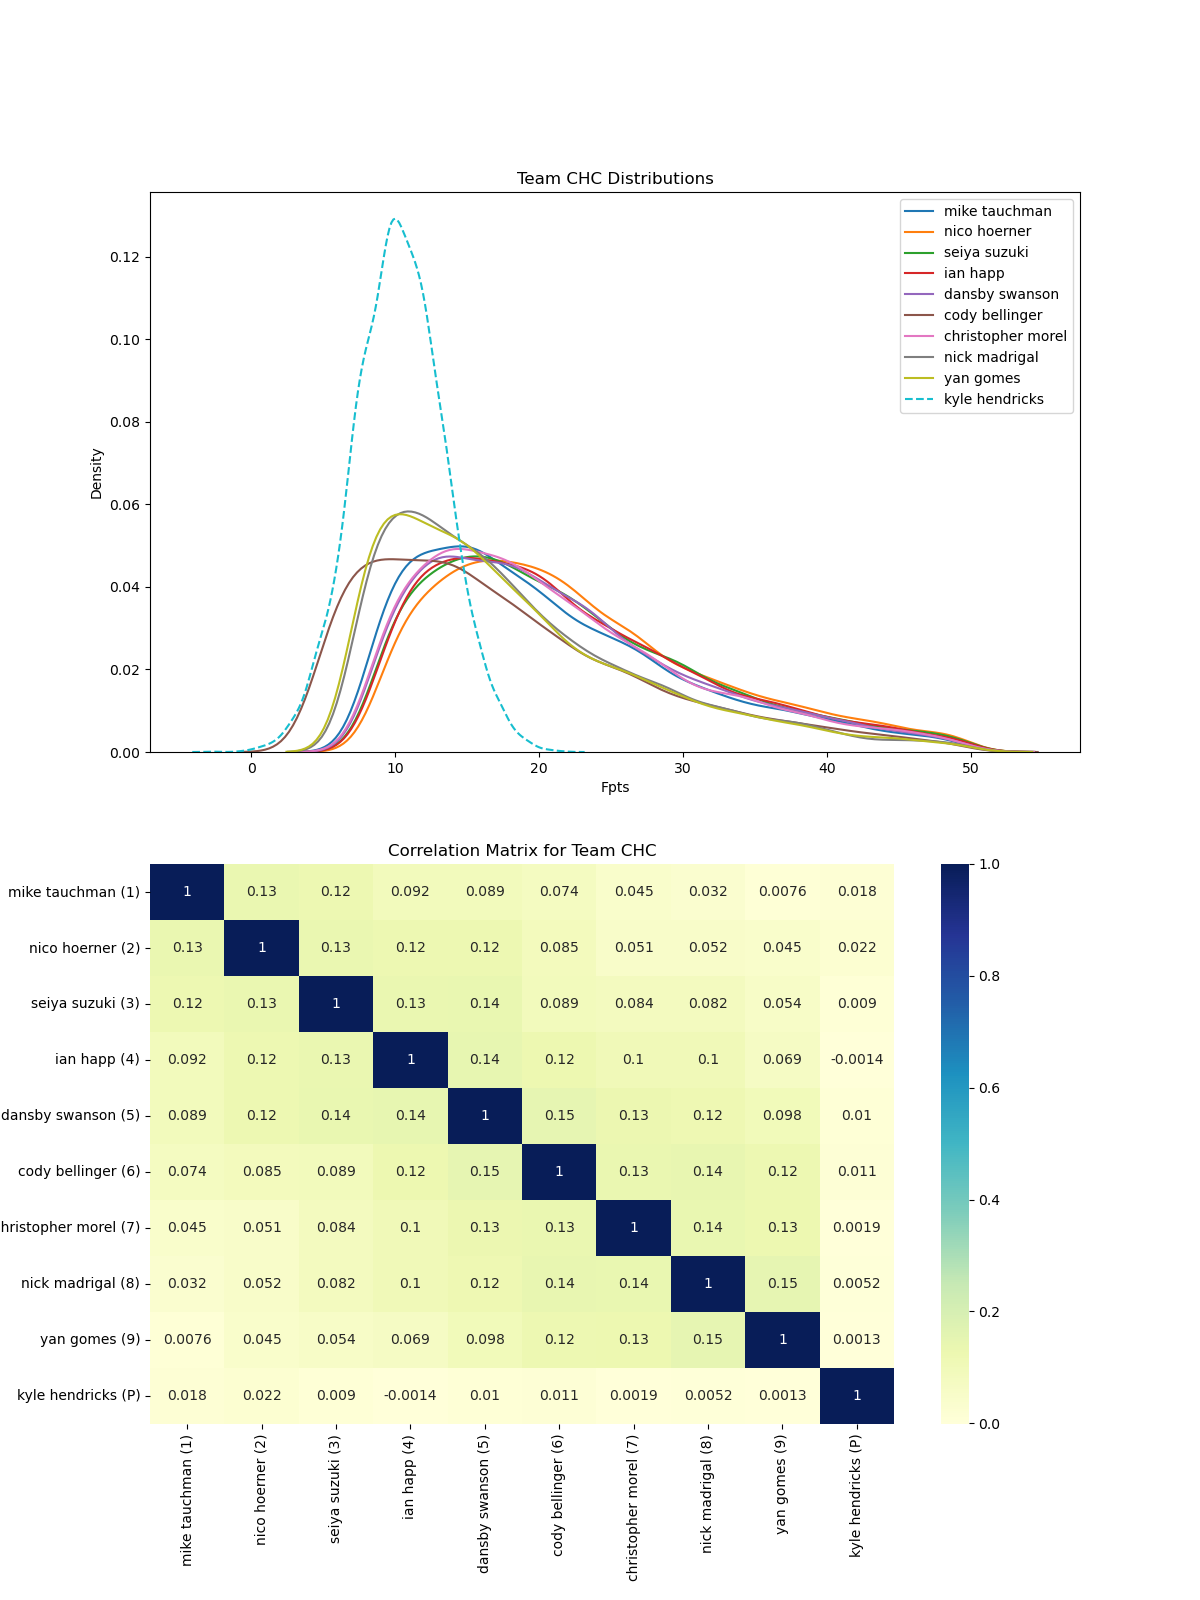
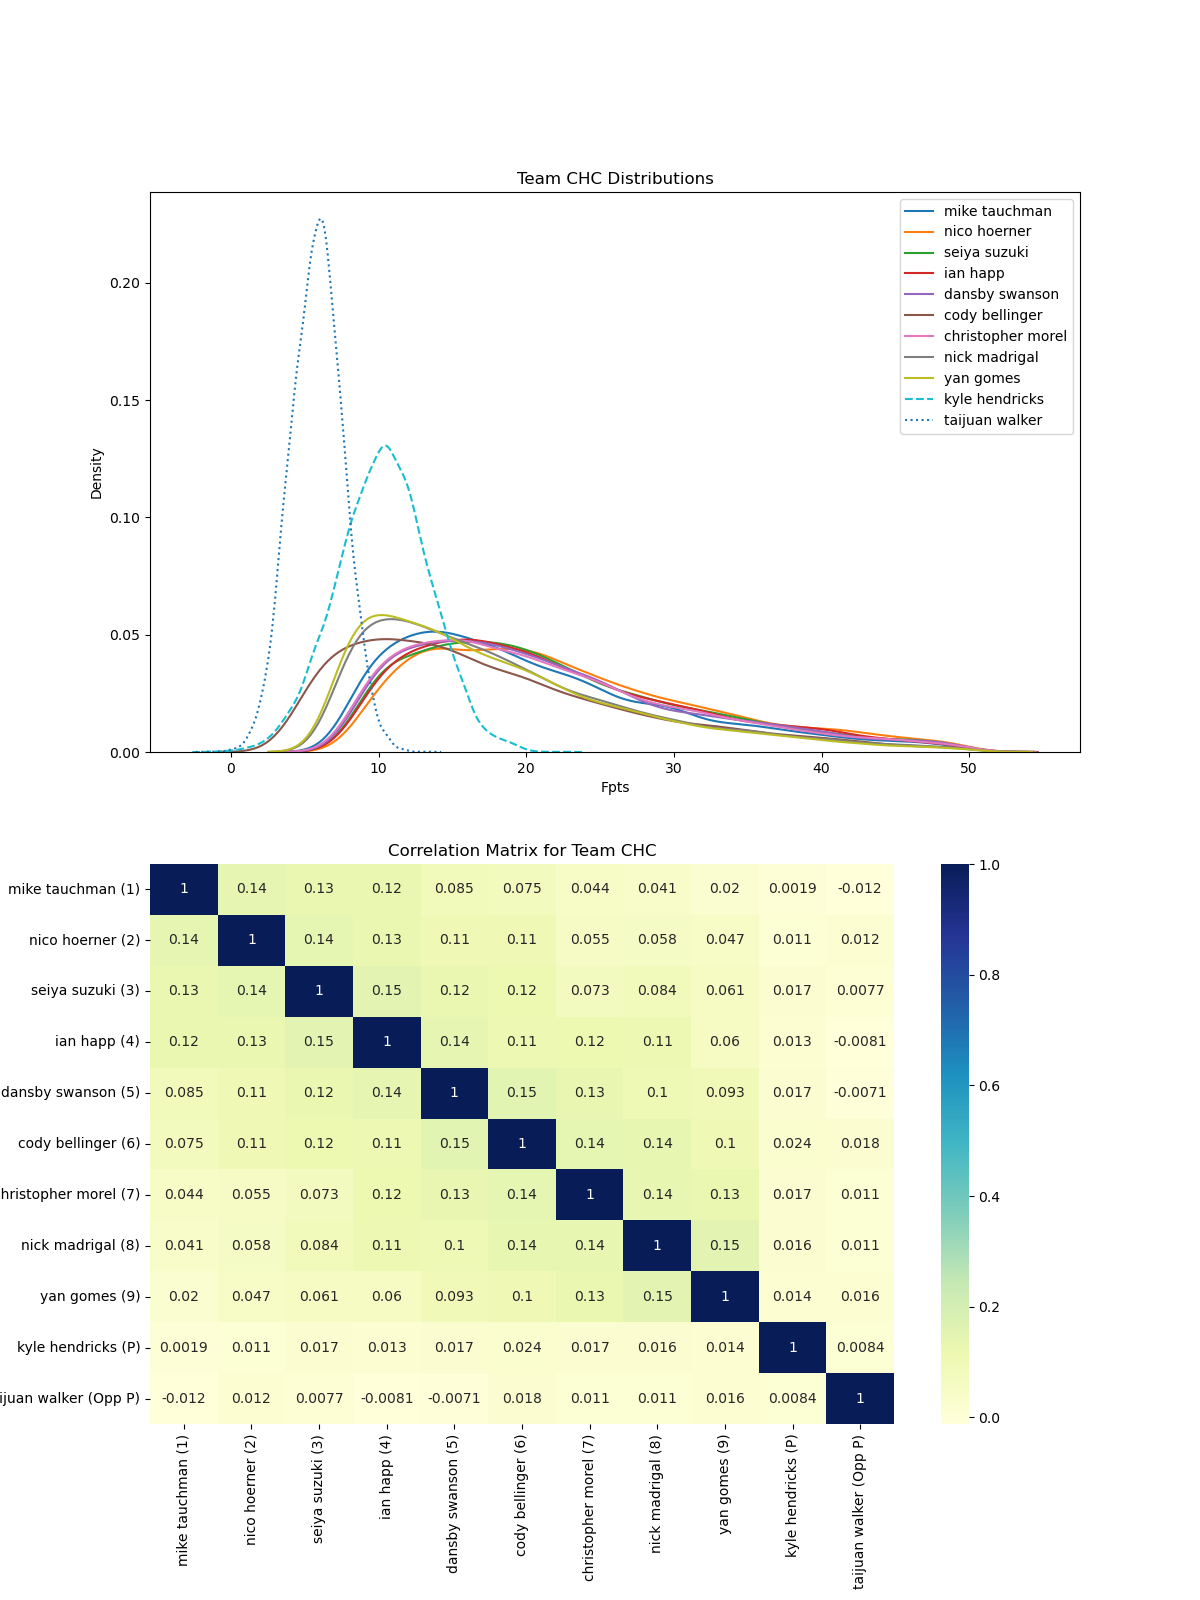
updated plots

diff --git a/src/mlb_gpp_simulator.py b/src/mlb_gpp_simulator.py
@@ -917,7 +917,7 @@ class MLB_GPP_Simulator:
             #  print(opposing_pitcher)
             if opposing_pitcher is not None and opposing_pitcher_id not in pitcher_samples_dict:
                 opposing_pitcher_fpts = opposing_pitcher['Fpts']
-                print(opposing_pitcher_fpts)
+                # print(opposing_pitcher_fpts)
                 opposing_pitcher_stddev = opposing_pitcher['StdDev']
                 opposing_pitcher_samples = np.random.normal(loc=opposing_pitcher_fpts, scale=opposing_pitcher_stddev, size=size)
                 pitcher_samples_dict[opposing_pitcher_id] = opposing_pitcher_samples
@@ -926,7 +926,9 @@ class MLB_GPP_Simulator:
         # Adjust pitcher and hitter performance
         if opposing_pitcher_id is not None and pitcher_tuple_key['ID'] != opposing_pitcher_id and opposing_pitcher_samples is not None:
             pitcher_samples_mean = np.mean(pitcher_samples)
+            # print(pitcher_samples_mean)
             opposing_pitcher_samples_mean = np.mean(opposing_pitcher_samples)
+            # print(opposing_pitcher_samples_mean)
 
             pitcher_performance_ratio = 1 - (pitcher_samples_mean / (pitcher_samples_mean + opposing_pitcher_samples_mean))
             opposing_pitcher_performance_ratio = 1 - pitcher_performance_ratio
@@ -990,6 +992,9 @@ class MLB_GPP_Simulator:
         # Add the pitcher's distribution to the plot
         sns.kdeplot(pitcher_samples, ax=ax1, label=pitcher_tuple_key['Name'], linestyle='--')
 
+        # Add the opposing pitcher's distribution to the plot
+        sns.kdeplot(opposing_pitcher_samples, ax=ax1, label=opposing_pitcher['Name'], linestyle=':')
+
         # Adding legend, labels and title
         ax1.legend(loc='upper right')
         ax1.set_xlabel('Fpts')
@@ -997,15 +1002,13 @@ class MLB_GPP_Simulator:
         ax1.set_title(f'Team {team_id} Distributions')
 
         # Correlation matrix
-        player_order = [player['Order'] if player['Order'] is not None else float('inf') for player in hitters_tuple_keys] + [float('inf')]
-        player_names = [f"{player['Name']} ({player['Order']})" if player['Order'] is not None else f"{player['Name']} (P)" for player in hitters_tuple_keys] + [f"{pitcher_tuple_key['Name']} (P)"]
-        samples_order = [hitters_samples[i] for i in range(len(hitters_samples))] + [pitcher_samples]
+        player_order = [player['Order'] if player['Order'] is not None else float('inf') for player in hitters_tuple_keys] + [1000, float('inf')]
+        player_names = [f"{player['Name']} ({player['Order']})" if player['Order'] is not None else f"{player['Name']} (P)" for player in hitters_tuple_keys] + [f"{pitcher_tuple_key['Name']} (P)", f"{opposing_pitcher['Name']} (Opp P)"]
+        samples_order = [hitters_samples[i] for i in range(len(hitters_samples))] + [pitcher_samples, opposing_pitcher_samples]
         sorted_samples = [x for _, x in sorted(zip(player_order, samples_order))]
 
         # Ensure the data is correctly structured as a 2D array
         sorted_samples_array = np.array(sorted_samples)
-        # inf_count = np.count_nonzero(np.isinf(sorted_samples_array))
-        # print(inf_count)
 
         # Ensure each row of the array is a variable and each column is an observation
         if sorted_samples_array.shape[0] < sorted_samples_array.shape[1]:
@@ -1021,6 +1024,8 @@ class MLB_GPP_Simulator:
 
         ax2.set_title(f'Correlation Matrix for Team {team_id}')
 
+
+
         # Saving the plot to a PNG file
         plt.savefig(f'Team_{team_id}_Distributions_Correlation.png')
         plt.close()
@@ -1030,6 +1035,9 @@ class MLB_GPP_Simulator:
             temp_fpts_dict[hitter['ID']] = hitters_samples[i]
 
         temp_fpts_dict[pitcher_tuple_key['ID']] = pitcher_samples
+
+        # If you also want to return the opposing pitcher samples
+        temp_fpts_dict[opposing_pitcher['ID']] = opposing_pitcher_samples
 
         return temp_fpts_dict
 
